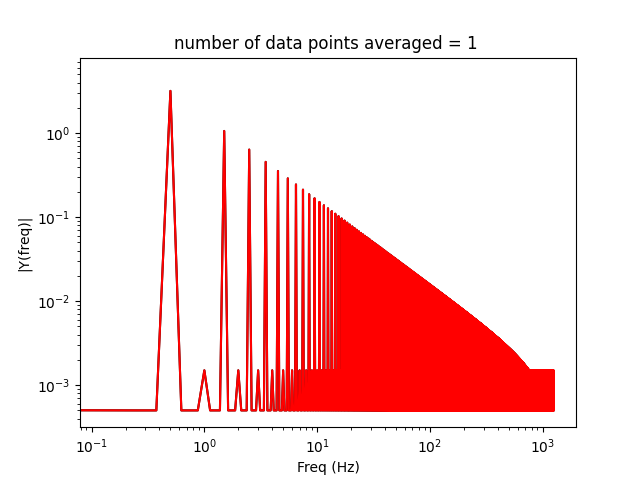
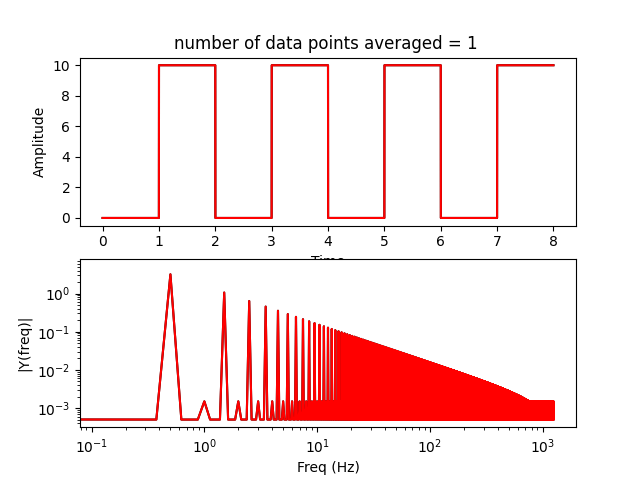
update plot

diff --git a/HW2/MAF/Q5_MA.py b/HW2/MAF/Q5_MA.py
@@ -4,7 +4,7 @@ import csv
 
 t = [] # column 0
 data = [] # column 1
-with open('sigC.csv') as f:
+with open('sigD.csv') as f:
     # open the csv file
     reader = csv.reader(f)
     for row in reader:
@@ -12,7 +12,7 @@ with open('sigC.csv') as f:
         t.append(float(row[0])) # leftmost column
         data.append(float(row[1])) # second column
 
-X=1 # number of data points averaged
+X=20 # number of data points averaged
 newdata=[0]*(X-1)
 i=0
 while i+X<=len(t):
@@ -20,6 +20,11 @@ while i+X<=len(t):
     newdata.append(sum(avglist)/X)
     i=i+1
 
+fig, (ax1, ax2) = plt.subplots(2, 1)
+ax1.plot(t,data,'k')
+ax1.plot(t,newdata,'r')
+ax1.set_xlabel('Time')
+ax1.set_ylabel('Amplitude')
 
 
 Fs = len(t)/(t[-1]-t[0]) #sampling rate
@@ -34,7 +39,7 @@ frq = frq[range(int(n/2))] # one side frequency range
 Y = np.fft.fft(y)/n # fft computing and normalization
 Y = Y[range(int(n/2))]
 
-plt.loglog(frq,abs(Y),'k') # plotting the fft
+ax2.loglog(frq,abs(Y),'k') # plotting the fft
 
 Fs = len(t)/(t[-1]-t[0]) #sampling rate
 Ts = 1.0/Fs # sampling interval
@@ -48,13 +53,13 @@ frq = frq[range(int(n/2))] # one side frequency range
 Y = np.fft.fft(y)/n # fft computing and normalization
 Y = Y[range(int(n/2))]
 
-plt.loglog(frq,abs(Y),'r') # plotting the fft
+ax2.loglog(frq,abs(Y),'r') # plotting the fft
 
 
-plt.xlabel('Freq (Hz)')
-plt.ylabel('|Y(freq)|')
+ax2.set_xlabel('Freq (Hz)')
+ax2.set_ylabel('|Y(freq)|')
 title="number of data points averaged = %d " % X
-plt.title(title)
+ax1.set_title(title)
 
 plt.show()
 
